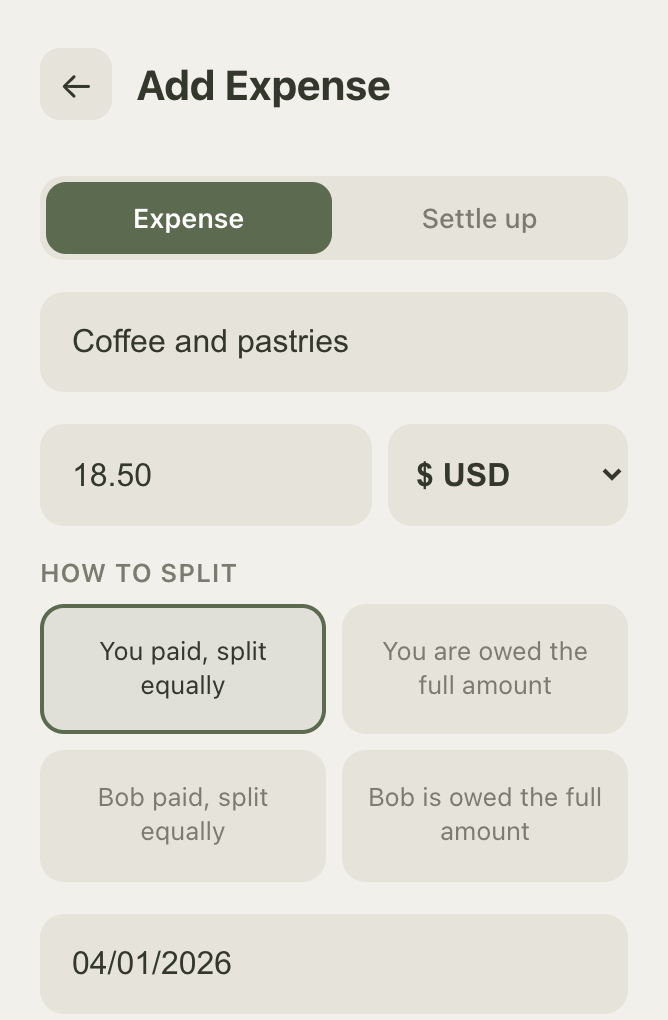
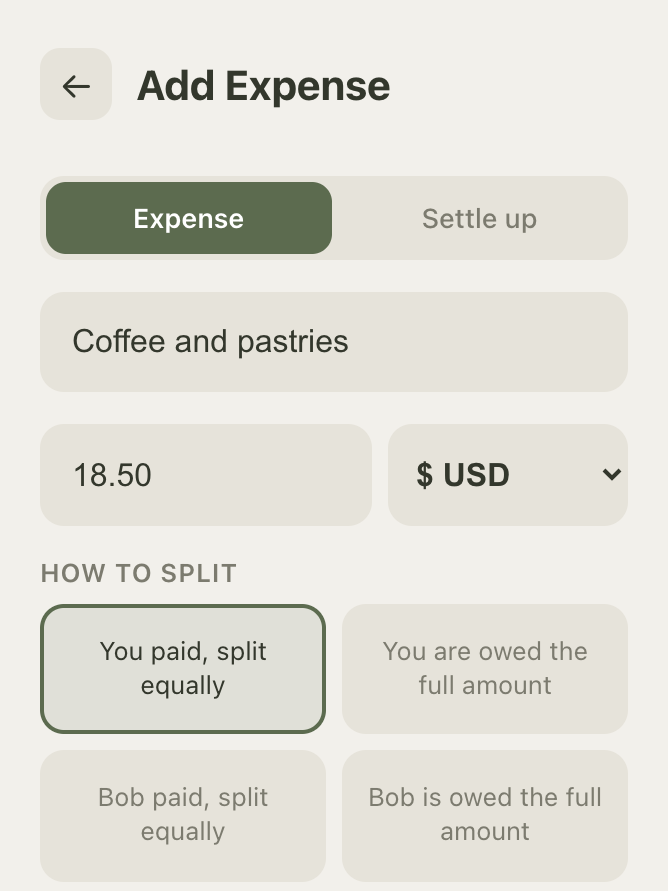
docs: normalize screenshots to 668×891, render duel with real app CSS
- Crop all four screenshots to 668×891 (consistent height, no blank space)
- Regenerate duel screenshot using Chrome headless with actual app CSS/fonts
- Add past duels history section to fill duel screen
- Add .win/.loss/.tie classes to .duel-result for color-coded result feedback

diff --git a/css/style.css b/css/style.css
@@ -547,6 +547,9 @@ h3 { font-size: 0.8rem; color: var(--text-muted); margin-bottom: 14px;
   padding: 16px; border-radius: var(--radius-sm);
   background: var(--surface);
 }
+.duel-result.win { background: var(--green-soft); color: var(--green); }
+.duel-result.loss { background: var(--red-soft); color: var(--red); }
+.duel-result.tie { background: var(--accent-soft); color: var(--text); }
 
 /* Coin flip */
 .coin {
